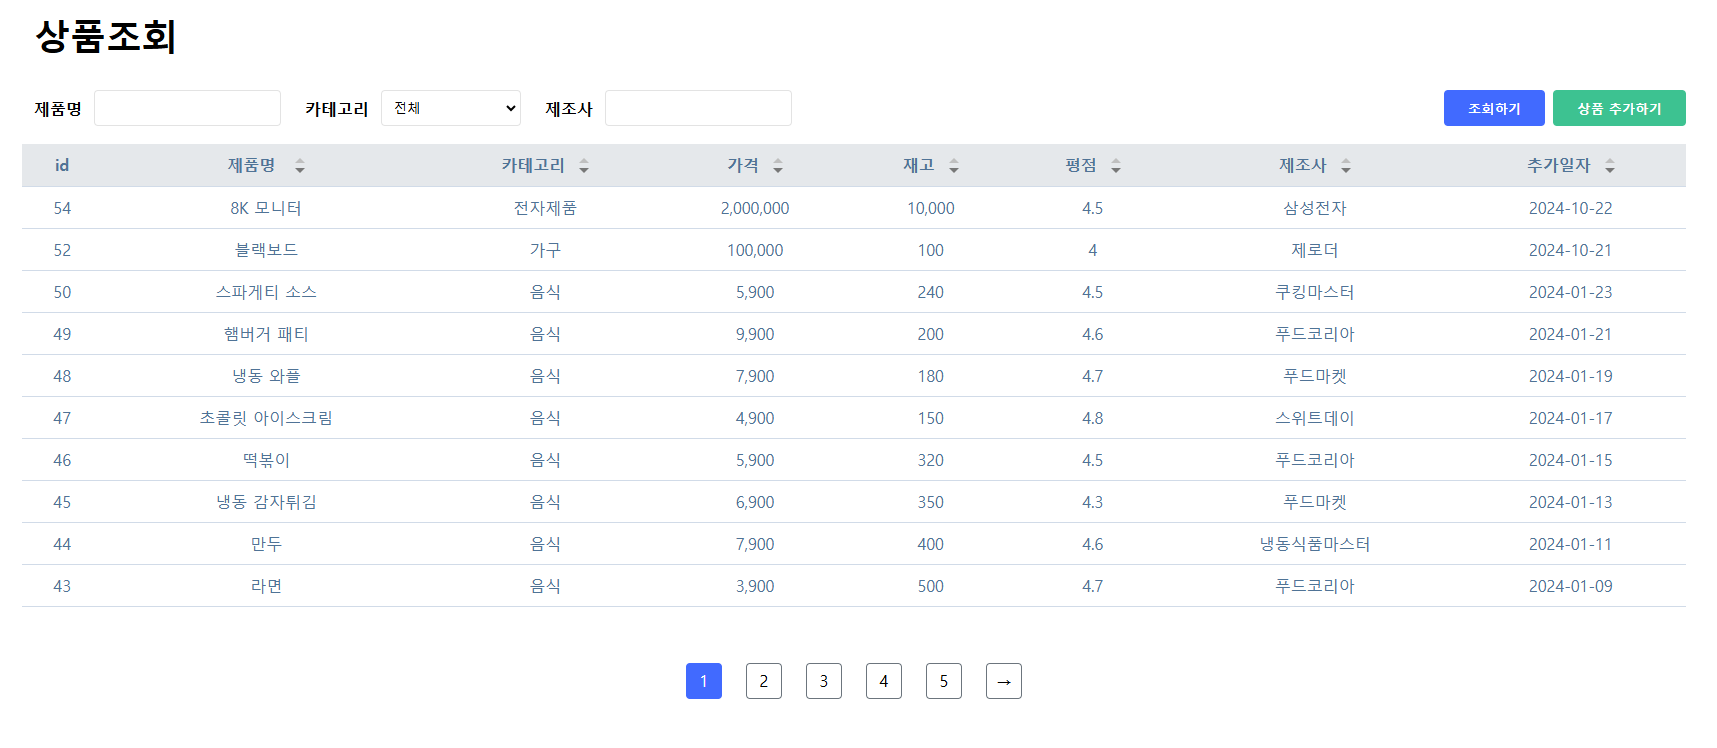
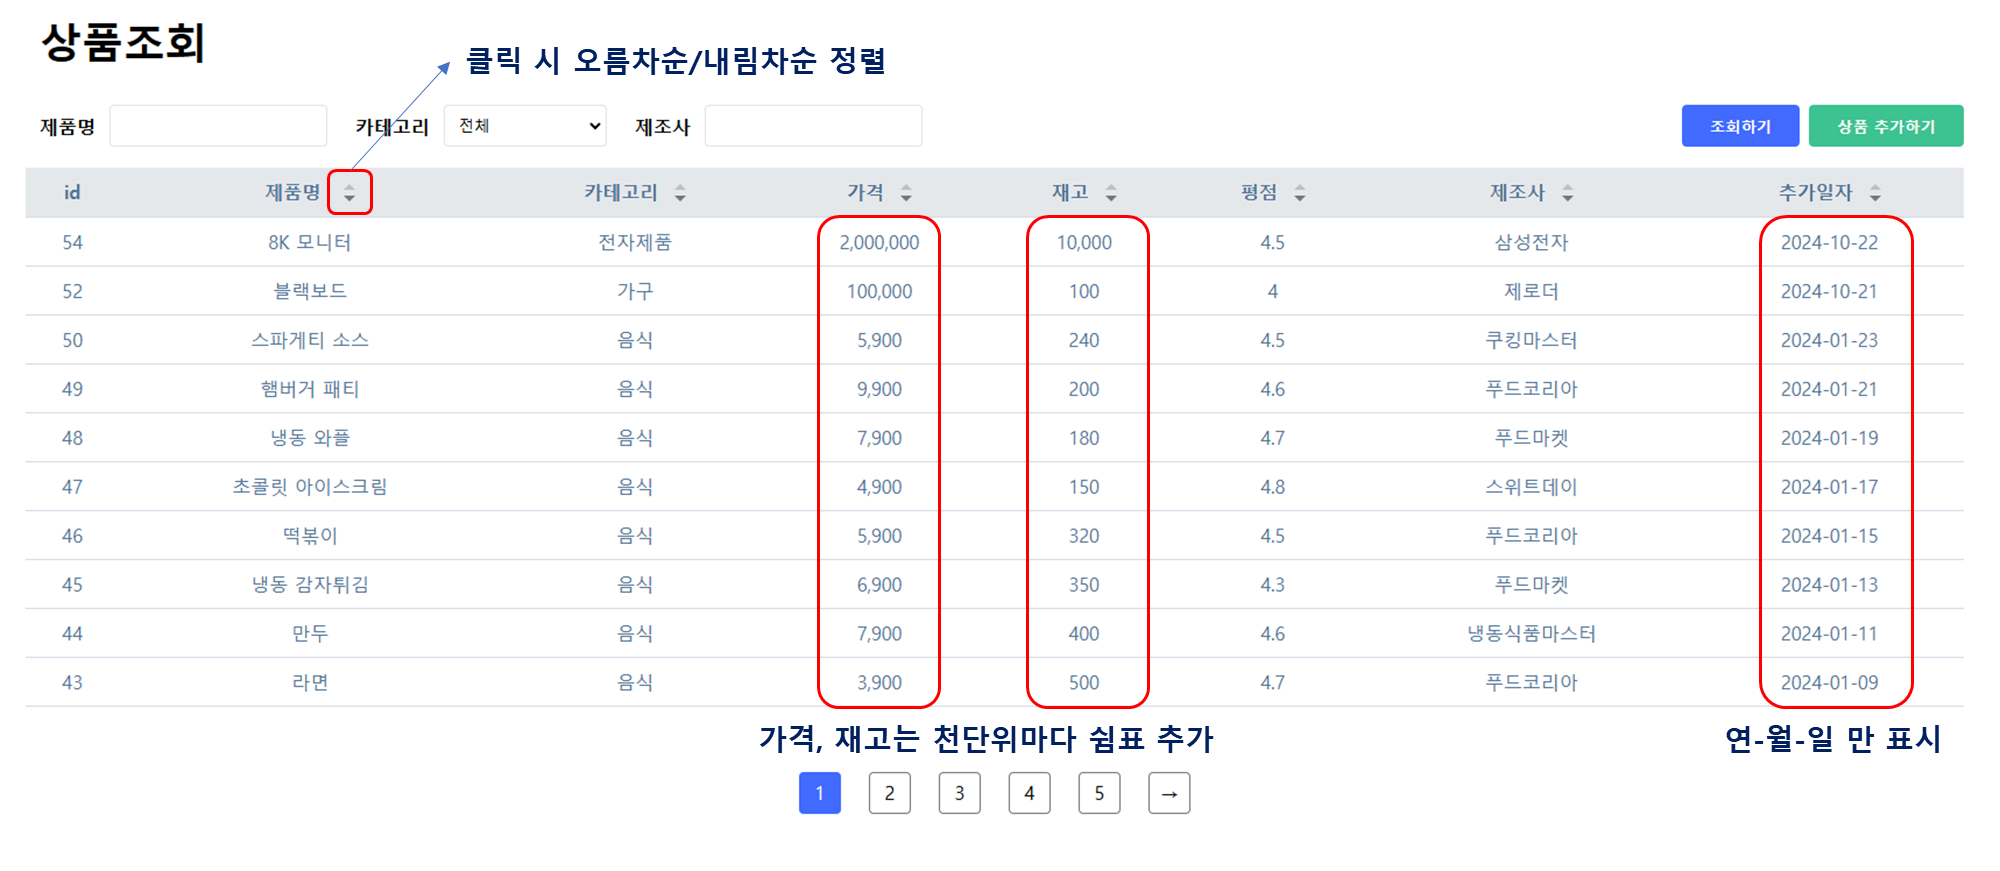
fix: 정렬 및 select 설명 추가

diff --git a/readme.md b/readme.md
@@ -17,8 +17,10 @@
 
 
 #### 1. 상품 카테고리 불러오기
-- '상품조회' 및 '상품추가' 시 사용자가 선택할 수 있는 카테고리 정보를 불러옵니다.
-- '카테고리' 에 들어가는 내용은 하드코딩하지 않고, 카테고리 조회 API을 이용하여 동적으로 구성합니다.
+- '상품조회' 및 '상품추가' 화면에서 사용자가 선택할 수 있는 카테고리 목록을 불러옵니다.
+- '카테고리' 선택창에 들어가는 내용은 하드코딩하지 않고 카테고리 조회 API을 이용하여 동적으로 구성합니다.
+![ex_screenshot](./image/ex6.png)
+
 
 #### 2. 상품 불러오기
 - 사용자로부터 '제품명', '카테고리', '제조사'를 입력받아 해당 조건에 맞는 상품목록을 불러오고, 이를 테이블 형식으로 표시합니다.
@@ -28,14 +30,16 @@
 - '조회하기' 버튼 클릭 시 해당 조회 조건을 검색하는 페이지로 이동되어야 합니다 &nbsp;(따라서 뒤로가기 시 조회하기 버튼을 누르기 직전의 페이지로 이동되어야 합니다).
 - 페이지네이션이 구현되어야 합니다. 이때 한 화면에 보여지는 페이지의 최대 갯수는 5개 입니다.
     - 현재 페이지를 구분할 수 있도록 별도의 색으로 표시되어야 합니다.
-    - index.html에 주석처리된 div.page-container의 내용을 참고하여 구현합니다.
+- 테이블 헤더의 위/아래 삼각형 모양을 클릭 시 해당 컬럼을 기준으로 client에서 데이터를 정렬하여 테이블에 표시되어야 합니다.
+    - 한 번 클릭하는 경우 오름차순, 두 번 클릭하는 경우 내림차순으로 정렬합니다.  
+    - '제품명', '카테고리', '제조사' 는 사전순으로 정렬합니다. 
 
 ![ex_screenshot](./image/ex3.png)
 
 <br/>
 
 #### 3. 상품 추가하기 모달
-- '상품 추가하기'을 클릭하였을 때 아래와 같은 모달이 보여져야 합니다.
+> '상품 추가하기' 버튼을 클릭하였을 때 아래와 같은 모달이 보여져야 합니다.
 ![ex_screenshot](./image/ex5.png)
 - 모달의 'X' 버튼과 바깥부분을 클릭했을 경우 모달이 닫혀야 합니다.
 - 상품가격, 재고 및 평점 입력은 숫자만 가능해야 합니다. 0 이하는 입력이 되지 않아야 합니다.
